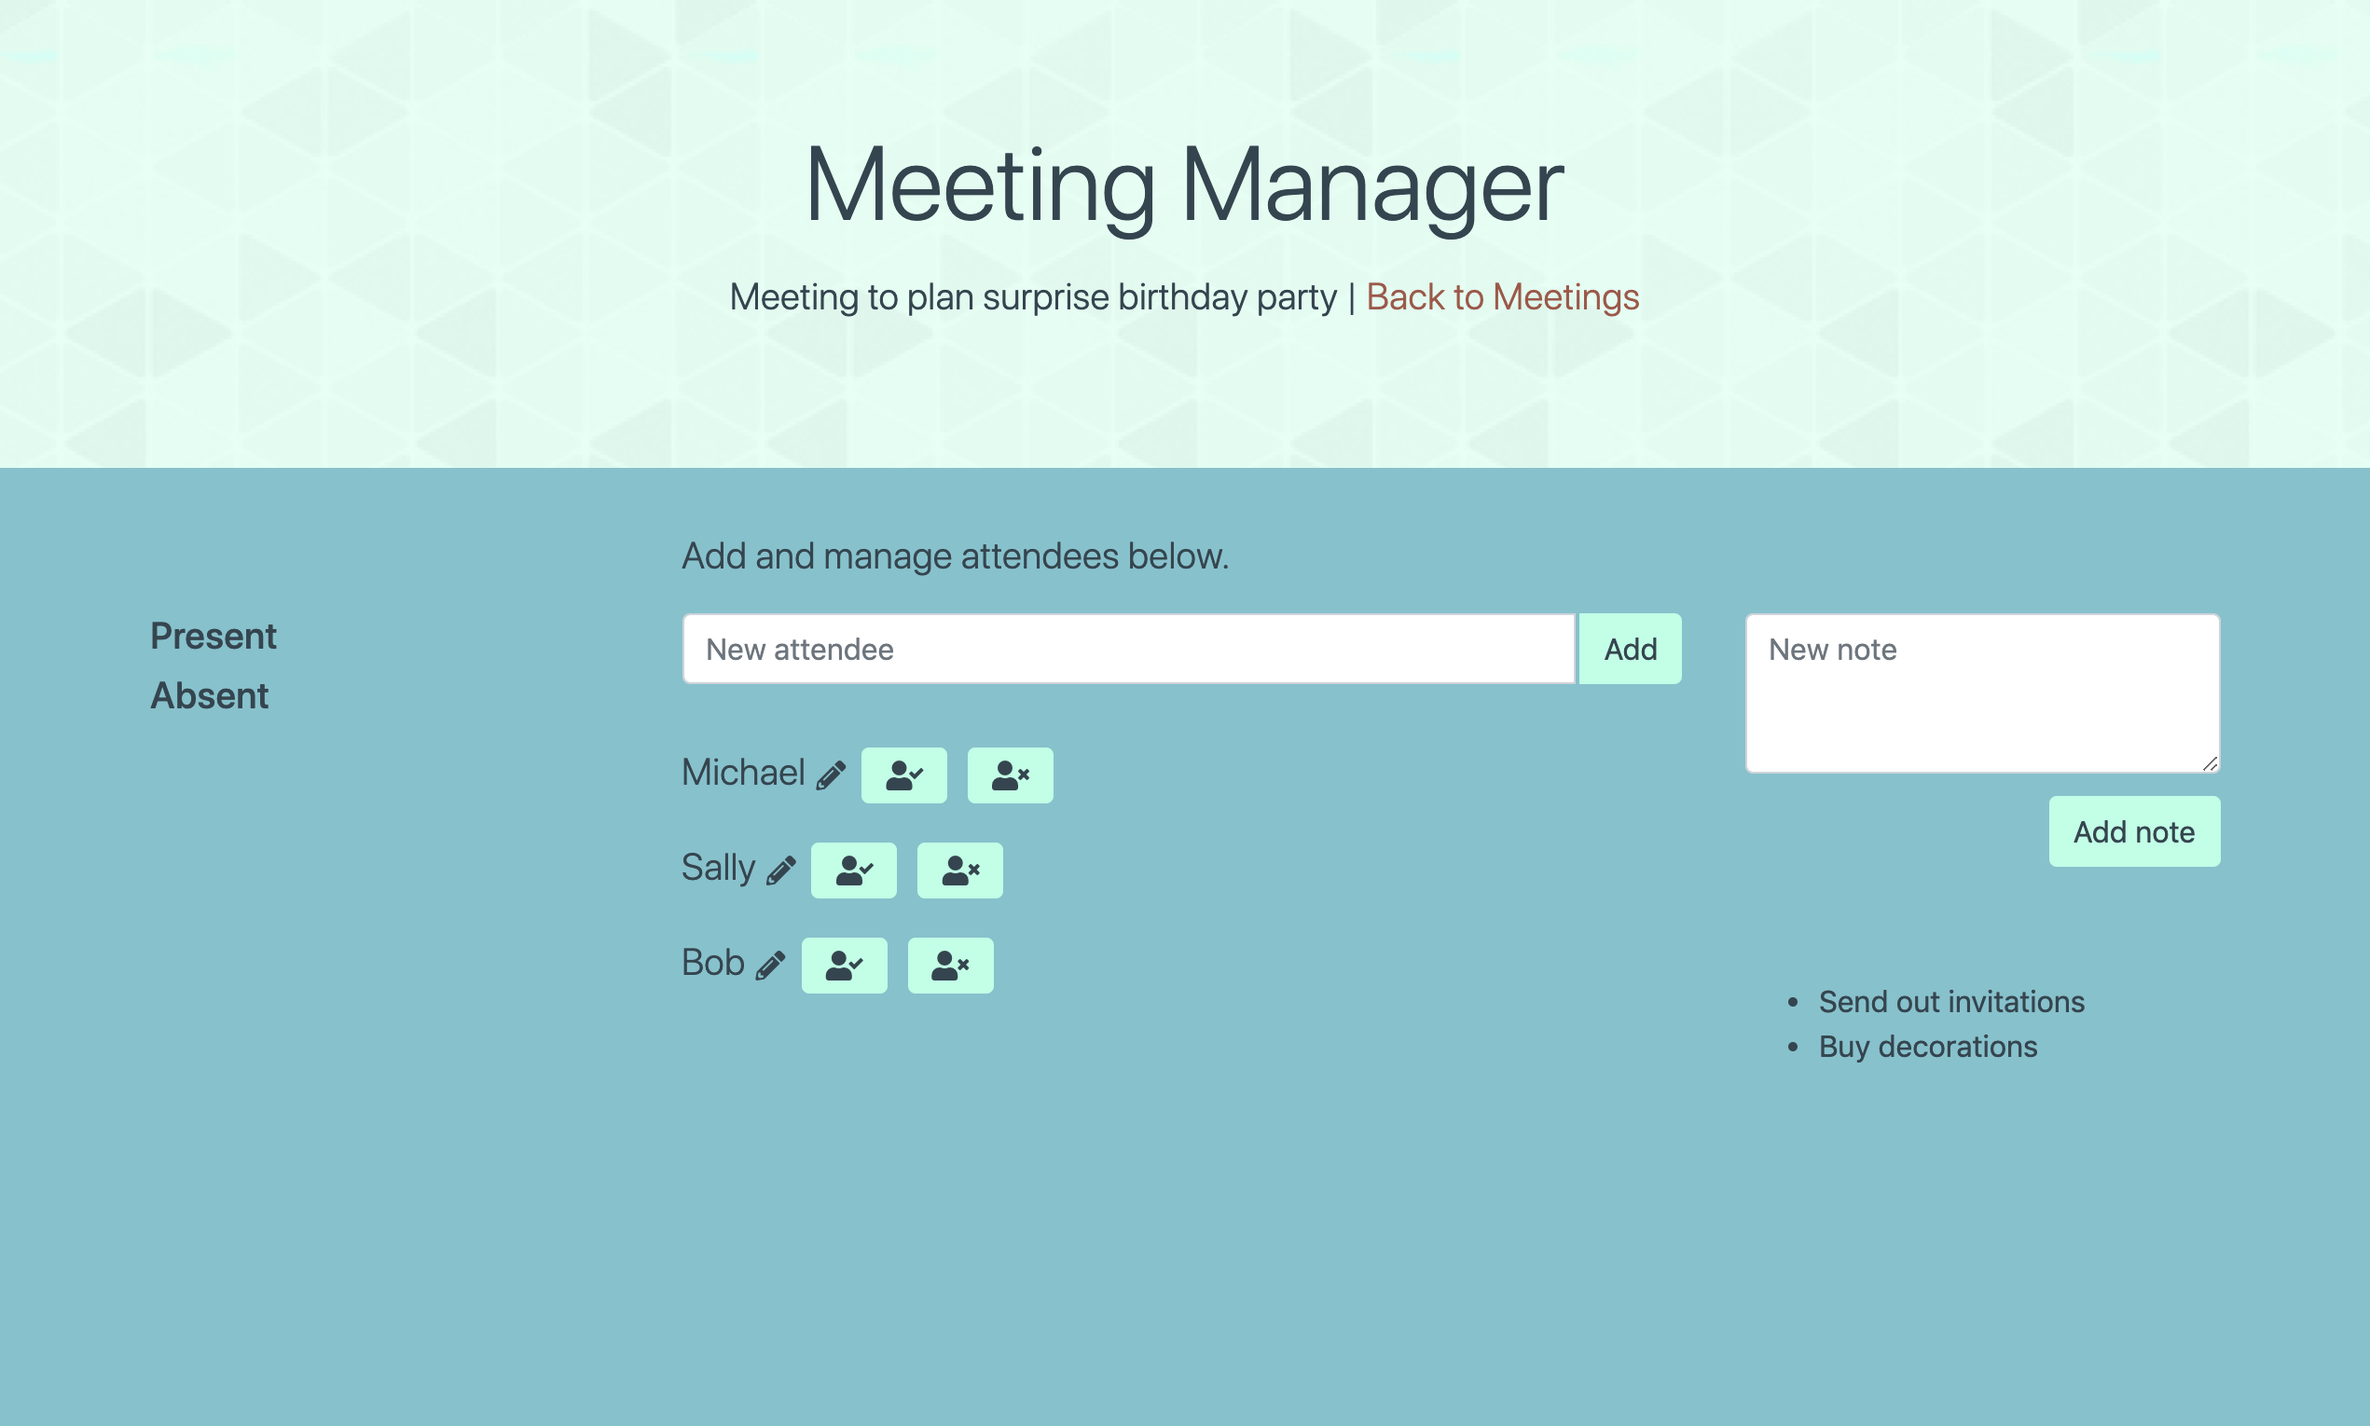
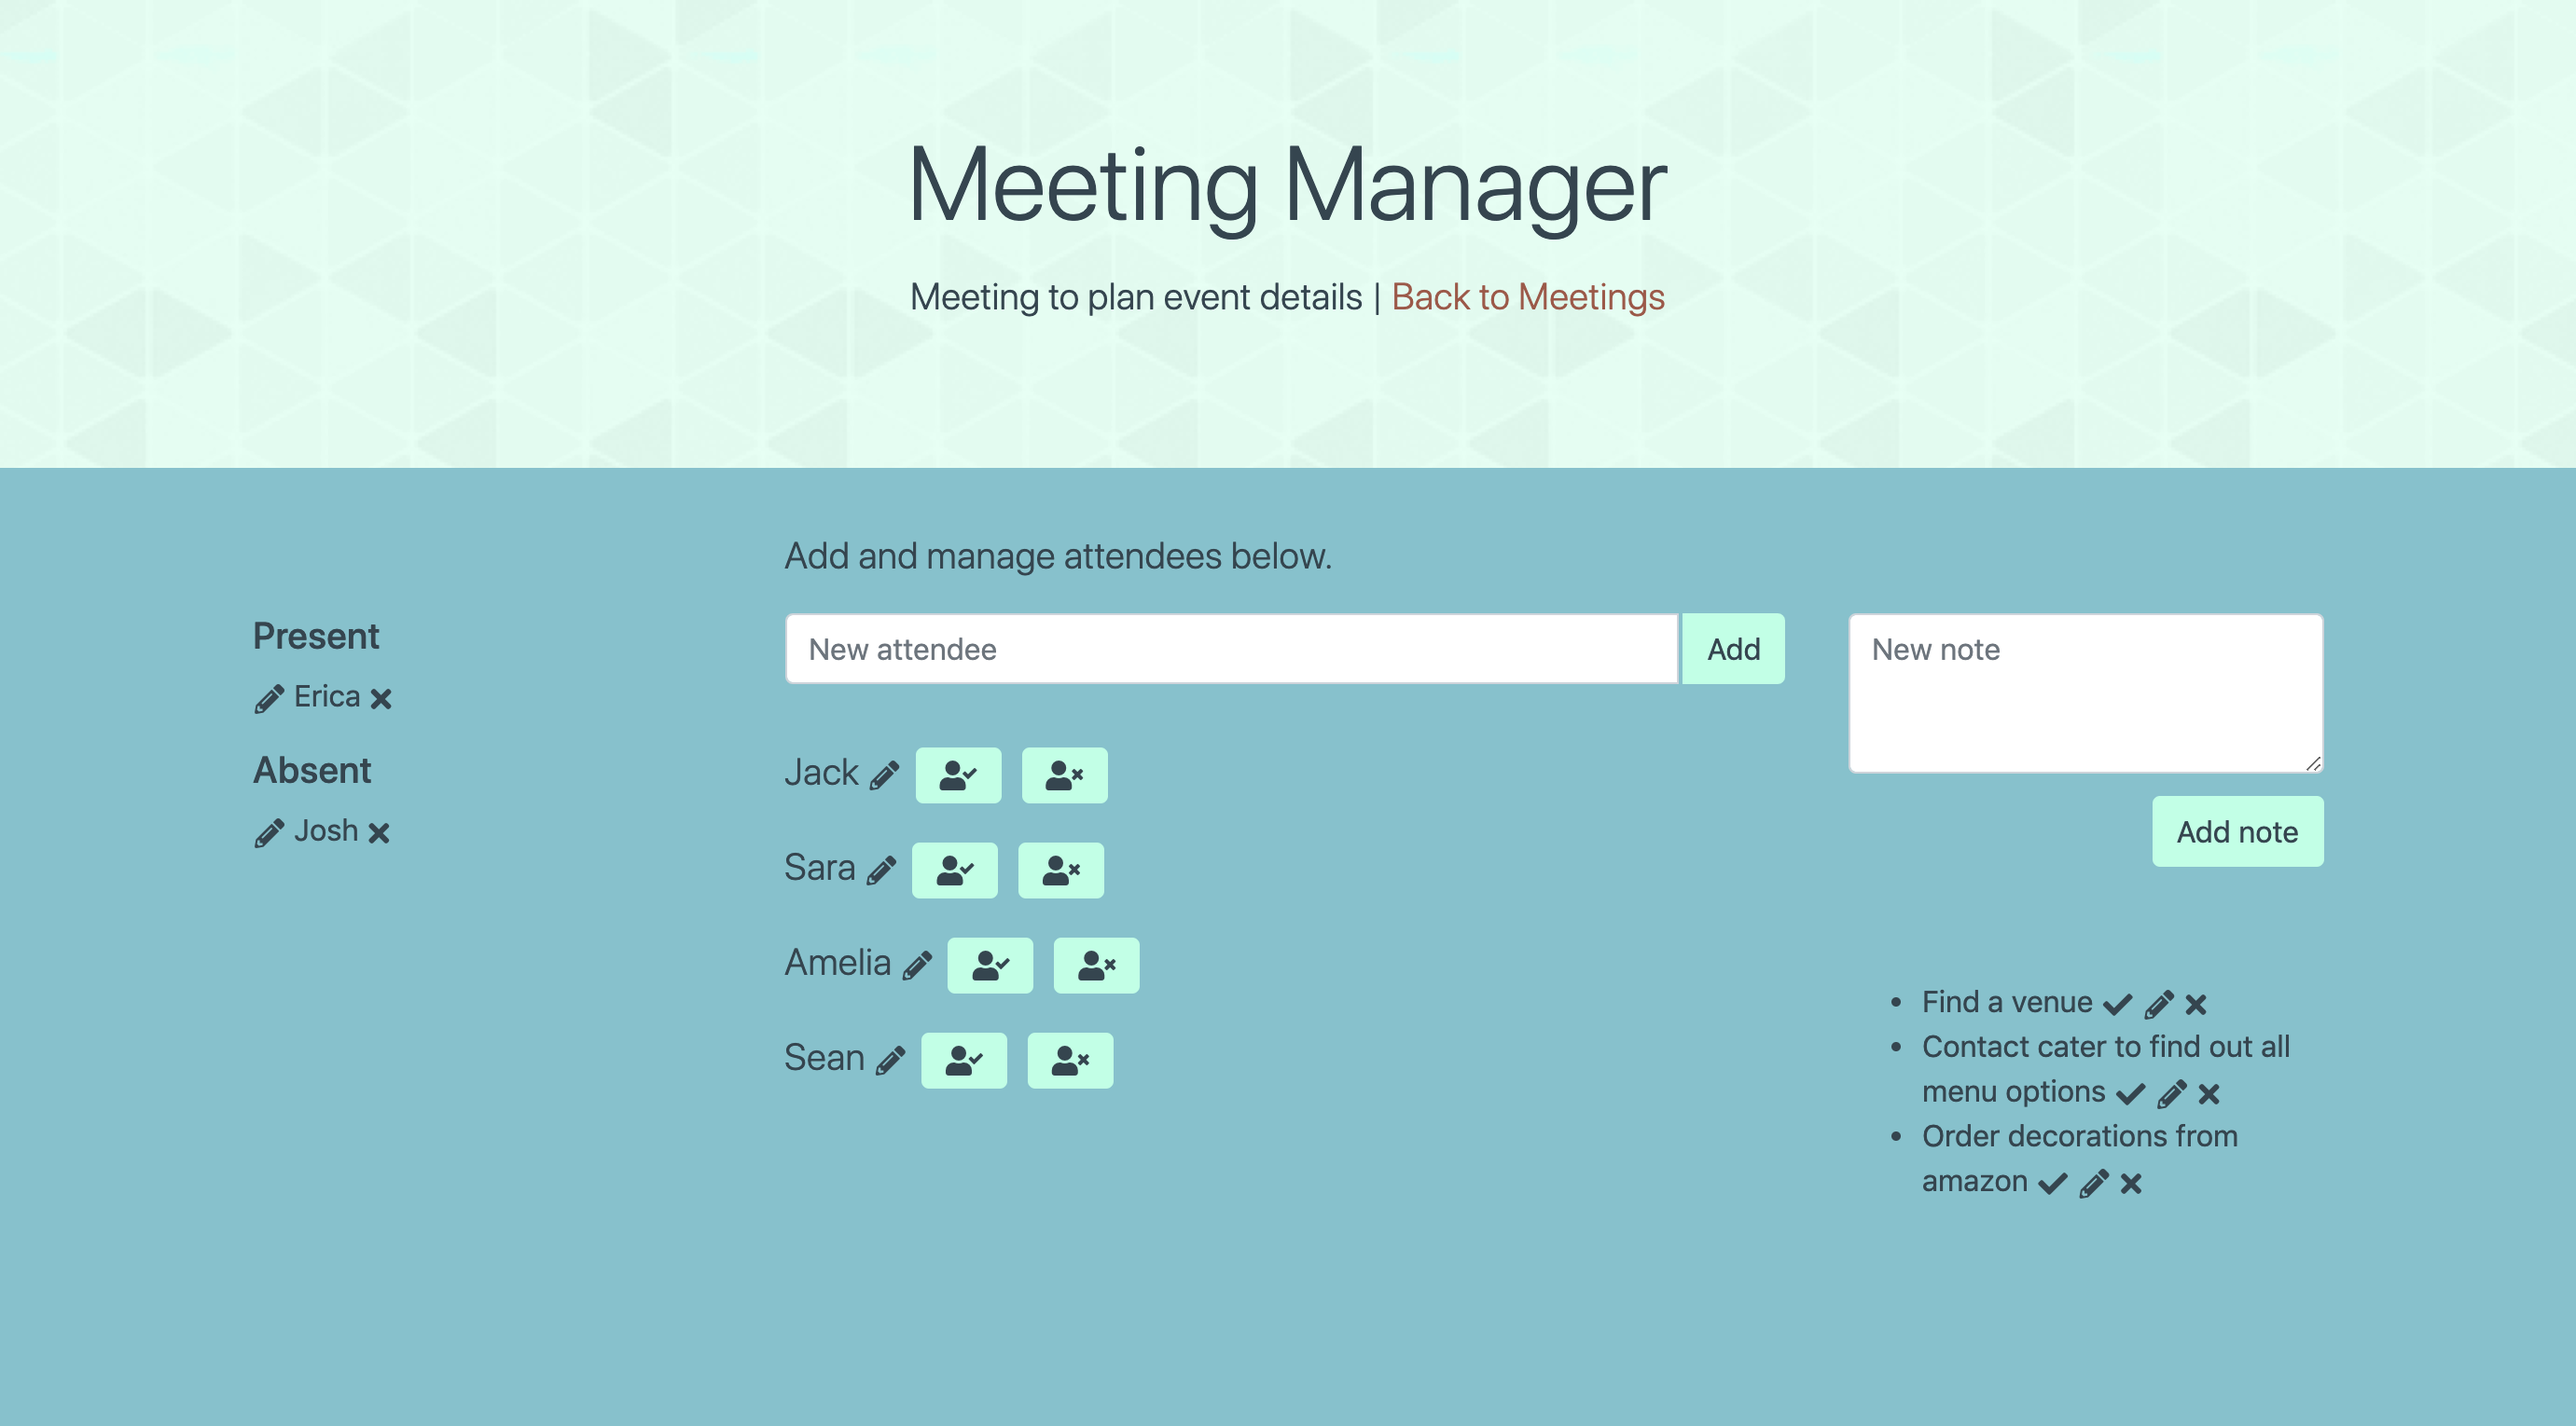
updates to readme

diff --git a/README.md b/README.md
@@ -40,7 +40,10 @@ Clicking the pencil displays options to update attendees. If nothing is entered 
 
 <img src="./images/update.png" alt="update attendee status" title="update attendee status" width="500" />
 
-Add notes/to-do items associated with the current meeting.
+Add notes/to-do items associated with the current meeting. <br>
+`✔` - Simply crosses out the to do as completed. Clicking again removes this in case the items still needs to be done. <br>
+`✏` - Enables editing of note content. <br>
+`✖` - Deletes notes upon user confirmation. <br>
 
 <img src="./images/add-note.png" alt="add note" title="add note" width="400" />
 
@@ -48,5 +51,4 @@ Add notes/to-do items associated with the current meeting.
 
 ### Future updates
 The following will be added to expand the app's functionality:
-* Ability to edit and delete notes
 * Ability to edit and delete meetings
